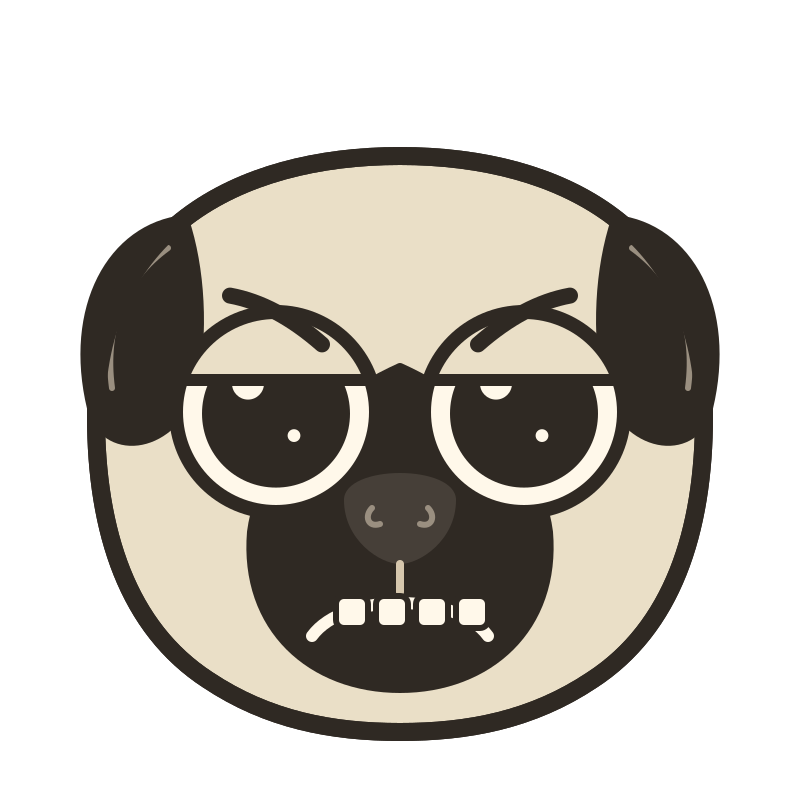
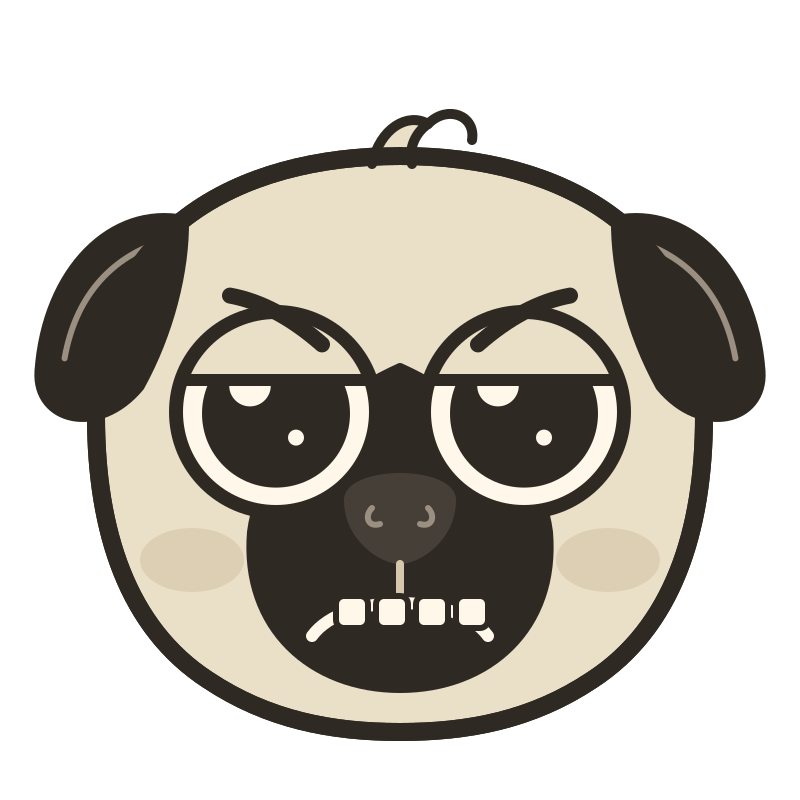
WS32 · D1.1 · última vuelta (Tomás): orejas de Pipo despegadas de la cara, brillo más grande, rubor en tono y mechón en la cabeza · hoja y video regenerados · bitácora §6-7: listado de assets de D1.2 para revisar antes del agente

diff --git a/Flipbook/motor/partes.py b/Flipbook/motor/partes.py
@@ -59,8 +59,8 @@ def pipo_ojo(cx, cy, r, mirada=(0, 0), parpado=0.0, parpado_abajo=0.0, brillo=1.
            circ(cx, cy, r, IVORY),
            f'<g clip-path="url(#ojo{cx}{cy})">',
            circ(px, py, r * 0.74, UMBER),
-           circ(px - r * 0.28, py - r * 0.3, r * 0.2 * brillo, IVORY),
-           circ(px + r * 0.18, py + r * 0.22, r * 0.08 * brillo, IVORY)]
+           circ(px - r * 0.26, py - r * 0.28, r * 0.26 * brillo, IVORY),
+           circ(px + r * 0.2, py + r * 0.24, r * 0.1 * brillo, IVORY)]
     if parpado > 0:       # párpado de arriba: un rectángulo del color del pelaje con borde
         top = cy - r + parpado * 2 * r
         out.append(f'<rect x="{cx - r - 4}" y="{cy - r - 6}" width="{2 * r + 8}" height="{top - (cy - r - 6)}" fill="{FAWN}"/>')
@@ -82,7 +82,7 @@ def pipo_oreja(lado, caida=0.0, atras=0.0):
     caida 0..1 = la punta cuelga más; atras 0..1 = la oreja se aplasta hacia atrás (sospecha)."""
     s = lado
     ax, ay = 200 + s * 108, 110                  # inserción en la esquina alta del cráneo
-    ang = s * (-6 + 10 * caida - 38 * atras)
+    ang = s * (-26 + 14 * caida - 30 * atras)
     d = (f"M {ax} {ay} C {ax + s * 36} {ay + 4}, {ax + s * 58} {ay + 44}, {ax + s * 46} {ay + 94} "
          f"C {ax + s * 40} {ay + 118}, {ax + s * 8} {ay + 116}, {ax - s * 4} {ay + 86} "
          f"C {ax - s * 10} {ay + 56}, {ax - s * 8} {ay + 24}, {ax} {ay} Z")
@@ -116,6 +116,12 @@ def pipo_cabeza(cara):
     partes.append(path(craneo, fill=FAWN))
     partes.append(pipo_oreja(-1, c["orejas"][0], c["atras"]))
     partes.append(pipo_oreja(1, c["orejas"][1], c["atras"]))
+    # rubor en los cachetes (en tono, sin color nuevo)
+    partes.append(ell(96, 280, 26, 16, FAWN_SOMBRA))
+    partes.append(ell(304, 280, 26, 16, FAWN_SOMBRA))
+    # mechón de pelo arriba de la cabeza (el detalle achuchable)
+    partes.append(path("M 186 82 C 190 64, 204 56, 214 62 C 208 66, 204 74, 206 82", fill=FAWN, w=W_SEC))
+    partes.append(path("M 214 62 C 224 52, 238 58, 236 70", w=W_SEC))
     # máscara negra del hocico: más chica que en la v2, deja aire para la sonrisa
     mascara = ("M 200 184 C 178 194, 132 220, 126 266 C 122 314, 156 344, 200 344 "
                "C 244 344, 278 314, 274 266 C 268 220, 222 194, 200 184 Z")

diff --git a/WS/WS32_08-09-2026.md b/WS/WS32_08-09-2026.md
@@ -64,7 +64,60 @@ cara y cuerpo; sus movimientos se construyen en el acto.
   sorprendido); ahora `pipo_ceja` define "hacia la nariz" explícitamente.
 - Teo sin anteojos: el segundo rasgo fijo pasa a ser la cara alargada con mandíbula.
 
-## 6. Notas
+## 6. Última vuelta (Tomás: orejas separadas + "achuchable")
+Orejas despegadas de la cara por defecto (como estaban en «sospecha»), brillo más grande en
+los ojos, rubor en los cachetes en tono (sin color nuevo) y un mechón de pelo arriba de la
+cabeza. Probado y descartado: mechoncitos de pelo en los bordes de los cachetes (parecían
+ganchitos).
+
+## 7. Listado de assets de D1.2 (para revisar con Tomás antes de lanzar el agente)
+
+**Quién hace qué:** el agente construye el MOTOR (A, B2, C, E). Claude dibuja la CAPA DE
+DETALLE (B1, D), que necesita ojo, con `partes.py`.
+
+**A · El motor lee un guion (agente)**
+- A1. **Guion en archivo** (`guiones/volNN.yaml`): escenas con texto de Pipo (≤6 palabras por
+  hoja), personajes (pose + cara + posición + escala + espejo), fondo, props, duración, zoom
+  "acerca", acento salvia (objeto que se enciende, aura). `render.py` v2 lo lee: cartel →
+  hojas → cierre → mp4 **sin tocar código**.
+- A2. **Fondos simples** (capa simple, línea taupe): habitación · calle/parque con árboles ·
+  mesa familiar · banco de plaza · sofá · espejo de baño.
+- A3. **Props simples** (programados): el teléfono (con su glow salvia) · cuadernito + lápiz ·
+  burbuja de pensamiento (con un dibujo simple adentro) · correa · plato de croquetas ·
+  nube de garabatos (ruido mental) · el aura (halos salvia).
+- A4. **Recursos de hoja:** zoom "acerca" en 2-3 hojas (recorte y escala de una zona) ·
+  texto de Pipo (Georgia, minúsculas, posición arriba o abajo) · parallax del fondo cuando
+  camina · secundarios de línea simple (la familia, chicas que pasan, el del bar).
+- A5. Lo que ya existe y se conserva: papel, taco de hojas, número, pulgar, cuadro en vuelo,
+  temblor de registro.
+
+**B · El cartel**
+- B1. **La imagen fija de Teo y Pipo a lo Tintín** (Claude, capa de detalle): Teo caminando
+  decidido con Pipo trotando adelante, silueta limpia, una sola vez, PNG transparente.
+- B2. **Plantilla del cartel** (agente): rótulo "TEO Y PIPO" en tipografía condensada grande ·
+  "Teo y Pipo en [TÍTULO] · Vol. N" · cuarta tinta por volumen (ocre, ladrillo, azul cartel) ·
+  formas a elegir por volumen (diagonales, rayos, círculo, franja, marco) · 2 s con temblor
+  leve sin pasar página.
+
+**C · El cierre fijo (agente)**
+- C1. Hoja de Pipo a cámara, cabeza grande, cara `alegria_sarcastica`.
+- C2. **Iris Looney Tunes** (~1,5 s): el círculo se achica sobre su cara y se apaga.
+- C3. Tapa que se cierra (1 s, ya existe, ajustar) + **contratapa** salvia con los cuatro
+  textos: "Dwellia" · "una Pausa al día, fuera del teléfono" · "Teo y Pipo volverán
+  próximamente" · "link en la bio".
+
+**D · Gestos de Teo del volumen de Vínculos (Claude, capa de detalle, en el acto)**
+- D1. **El paso de Spiderman** (caderas, pistolitas con los dedos, pelo caído en la cara).
+- D2. **En el rincón con el teléfono** (el `sentado` encorvado + teléfono en las manos).
+- D3. **Escribir con burbuja** (el `sentado_erguido` + cuadernito + burbuja con los abuelos).
+- D4. **Erguido con aura** (el `parado` + halos salvia).
+- Regla de costo: ≤2-3 poses nuevas por volumen; la cena familiar y los secundarios se
+  dibujan en la WS del volumen (D2).
+
+**E · Aceptación:** un guion de prueba de 3 escenas (problema · espejo · magia) renderiza a
+mp4 con cartel y cierre **sin tocar código**, usando las piezas de D1.1.
+
+## 8. Notas
 - Sin deploy. `Tiktok/` y los mp4 siguen fuera del repo.
 - Gotcha: `rsvg-convert` sí está; `cairosvg`, `inkscape` e `imagemagick` no. Alcanza.
 - Lo que D1.2 hereda: `Marioneta.pegar(...)` como única puerta para poner un personaje en
